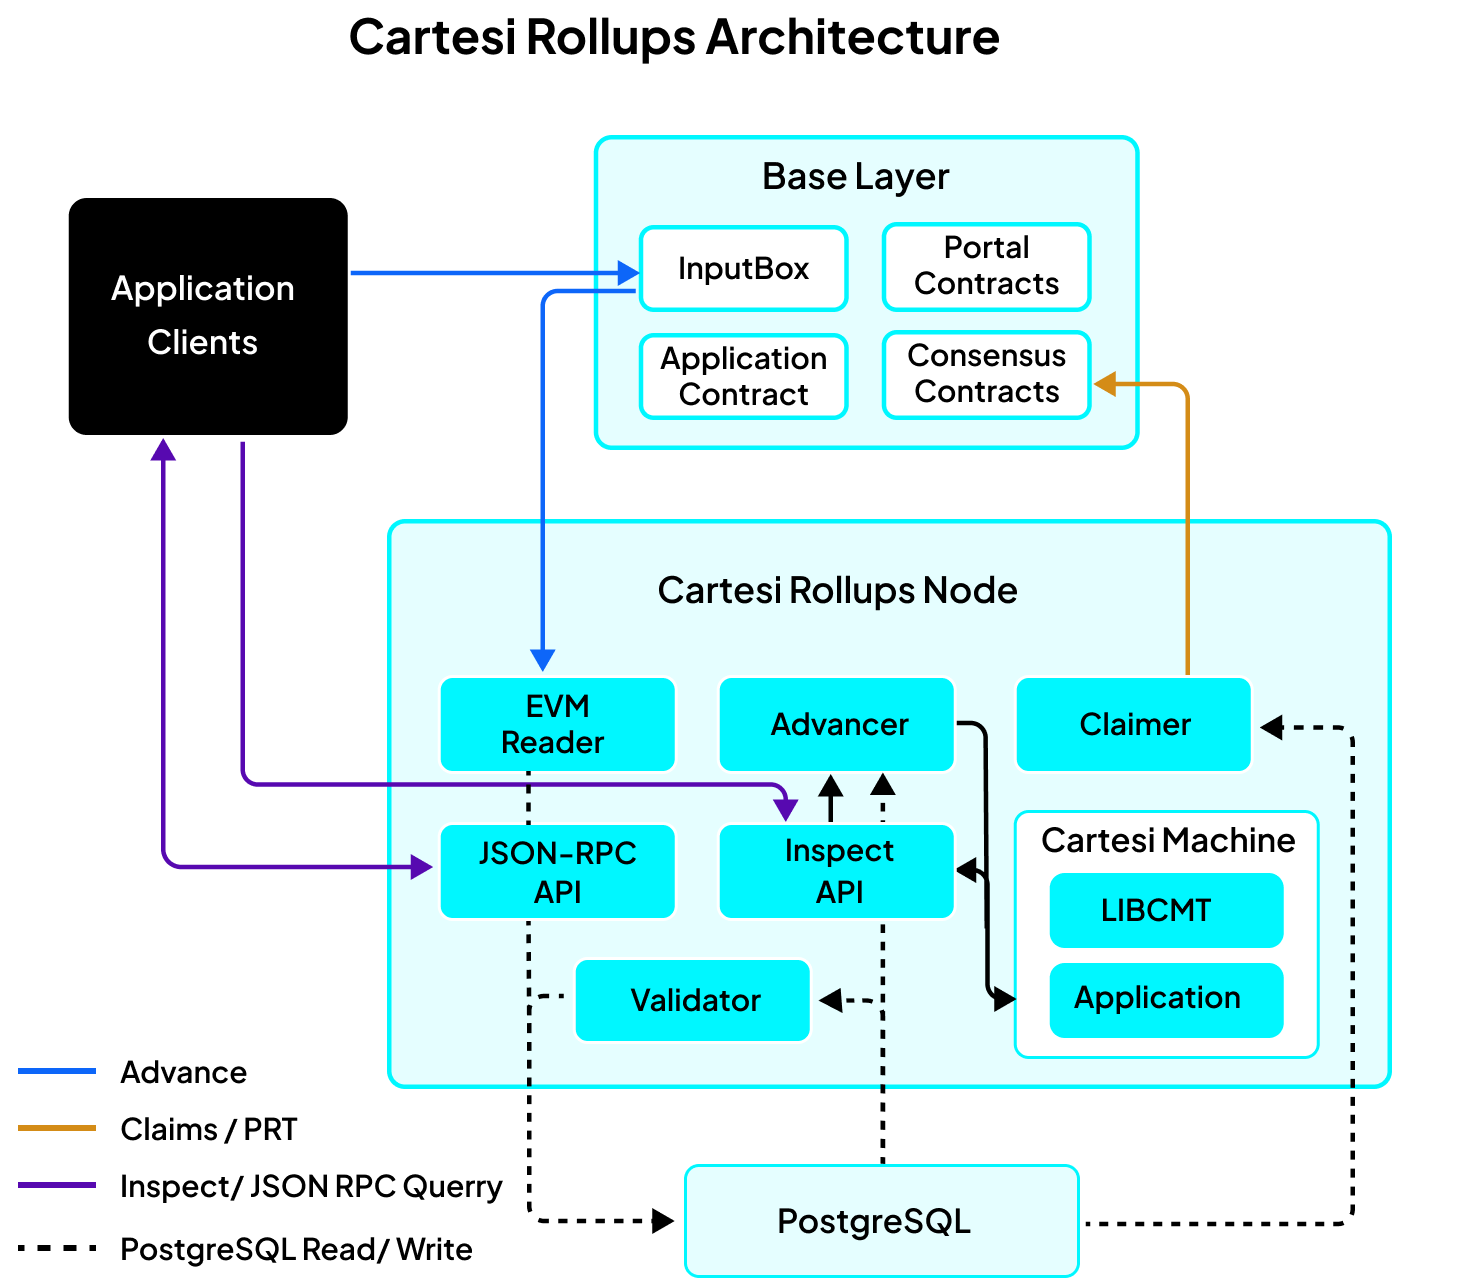
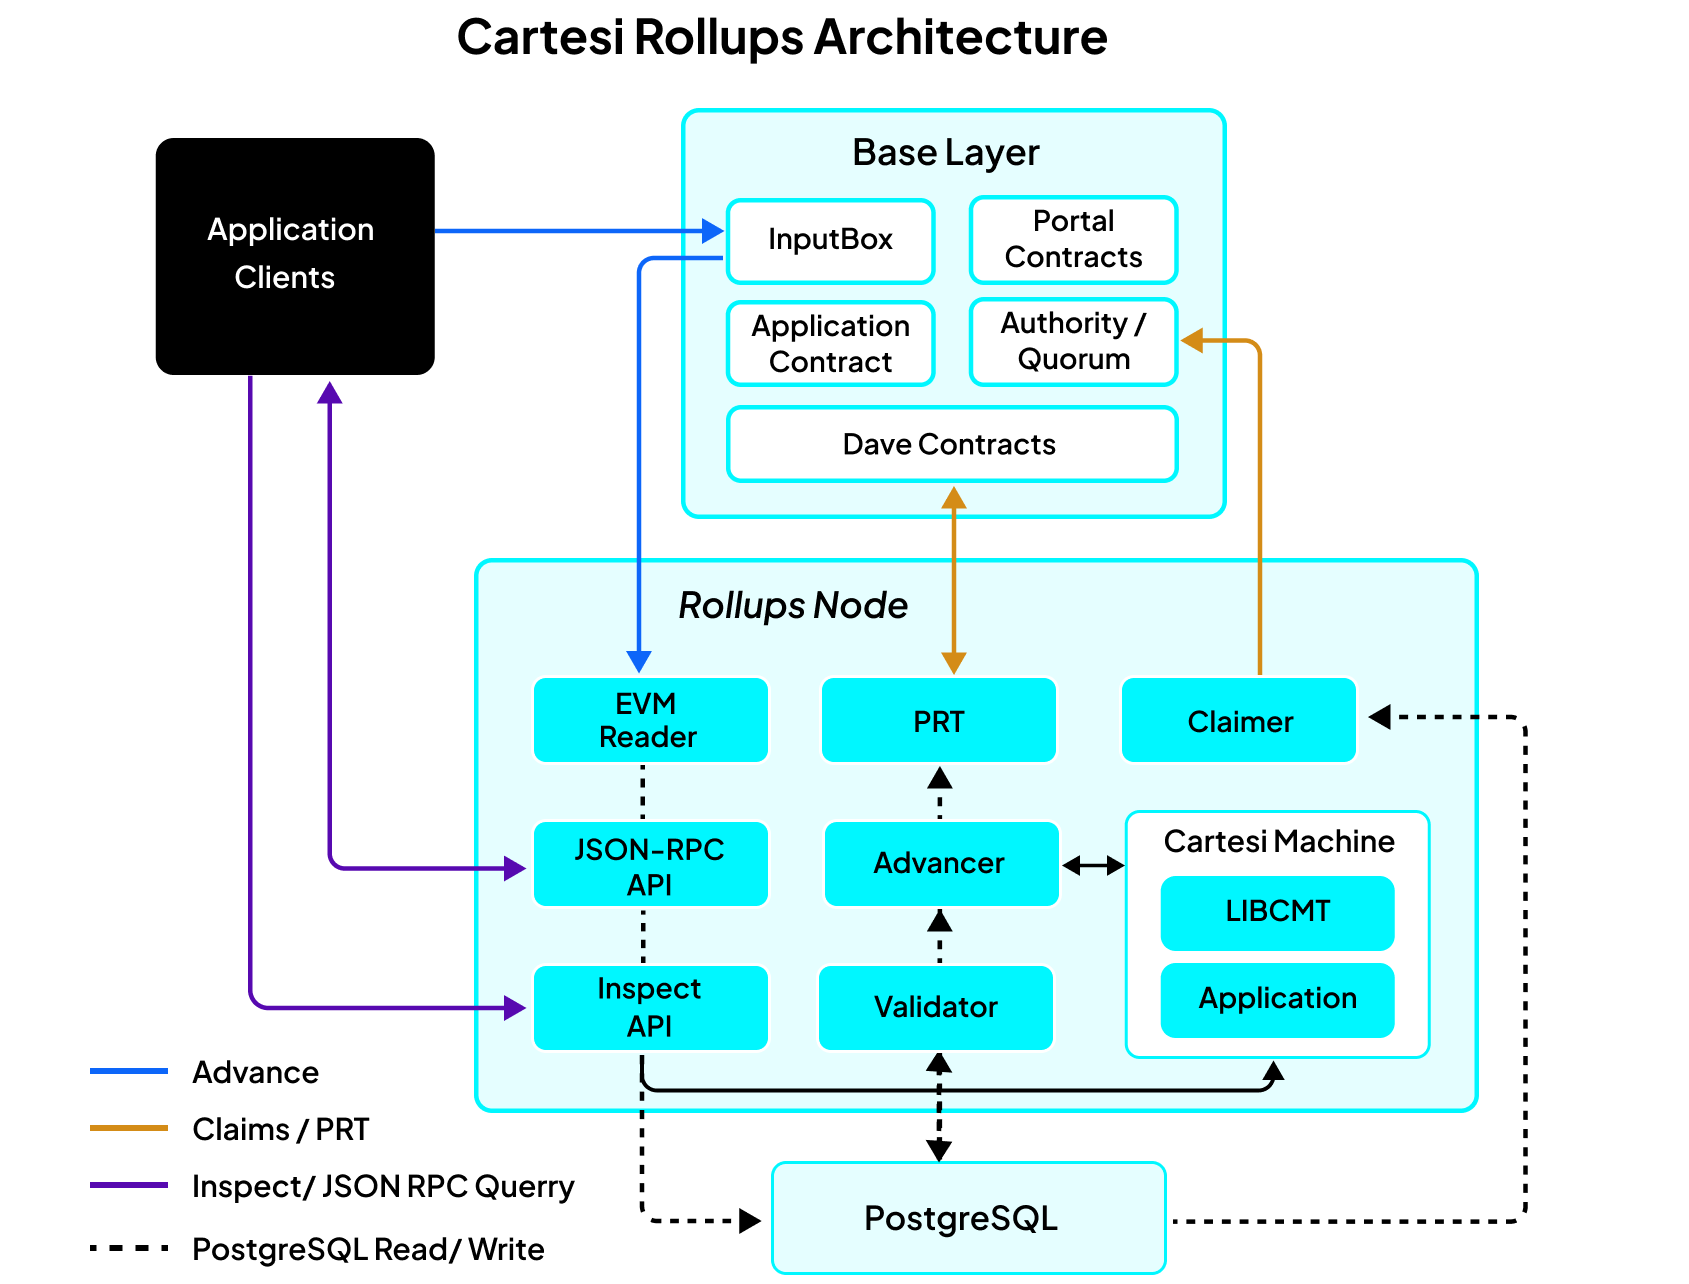
mod: Minor review implementation

diff --git a/rollups-node/README.md b/rollups-node/README.md
@@ -1,19 +1,19 @@
 <br>
 <p align="center">
-    <img src="docs/images/cartesi-logo.png" align="center" width="20%">
+    <img src="docs/images/cartesi-logo.png" align="center" width="20%" alt="Cartesi">
 </p>
 <br>
 
 # Cartesi Rollups Node
 
 [![Latest release](https://img.shields.io/github/v/release/cartesi/rollups-node?include_prereleases)](https://github.com/cartesi/rollups-node/releases)
-[![Build](https://github.com/cartesi/rollups-node/actions/workflows/build.yml/badge.svg?branch=next/2.0)](https://github.com/cartesi/rollups-node/actions/workflows/build.yml)
+[![Build](https://github.com/cartesi/rollups-node/actions/workflows/build.yml/badge.svg?branch=main)](https://github.com/cartesi/rollups-node/actions/workflows/build.yml)
 [![License](https://img.shields.io/github/license/cartesi/rollups-node)](LICENSE)
 
 Cartesi Rollups Node is the reference middleware connecting Cartesi Rollups contracts, application back ends running inside Cartesi Machines, and application clients. It reads on-chain inputs, advances application state, stores outputs, reports, claims, and proofs in PostgreSQL, submits claims when enabled, and exposes JSON-RPC and Inspect APIs for querying application state.
 
-> [!WARNING]
-> The 2.0 release line is currently in alpha. Interfaces, configuration, database schemas, and deployment procedures may change between releases. Before upgrading, review [GitHub Releases](https://github.com/cartesi/rollups-node/releases) and compare the target tag with your currently deployed version.
+> [!IMPORTANT]
+> Before upgrading, review [GitHub Releases](https://github.com/cartesi/rollups-node/releases) and compare the target release with the version currently deployed. Use compatible node, Cartesi Machine emulator, CLI, snapshot, and proof-tool versions throughout a deployment.
 
 <details>
 <summary><strong>Table of contents</strong> — click to expand</summary>
@@ -46,7 +46,7 @@ The node connects four parts of a Cartesi Rollups deployment:
 - **PostgreSQL:** stores applications, inputs, outputs, reports, epochs, claims, proofs, and operational state.
 - **Application clients:** submit inputs through the base layer, query indexed state through JSON-RPC, and send read-only requests through the Inspect API.
 
-![Cartesi Rollups architecture showing advance, inspect, query, and claim routes](docs/images/cartesi-rollups-architecture.png)
+![Cartesi Rollups architecture showing advance, inspect, query, claim, and PRT routes](docs/images/cartesi-rollups-architecture.png)
 
 Advance requests are submitted to the on-chain `InputBox`, read by the node, executed by the application machine, and persisted with their outputs and reports. The validator computes epoch claims and output proofs. The claimer submits Authority or Quorum claims, while the PRT service participates in Dave tournaments.
 
@@ -90,11 +90,11 @@ docker compose down -v
 
 ### Debian package
 
-The release workflow publishes amd64 and arm64 packages. Install the matching Cartesi Machine emulator before installing the node package:
+The release workflow publishes amd64 and arm64 packages. Choose a node release and its compatible Cartesi Machine emulator release, then replace the values below before installing:
 
 ```sh
-VERSION=2.0.0-alpha.12
-EMULATOR_VERSION=0.21.0
+VERSION="<node-version>"
+EMULATOR_VERSION="<compatible-emulator-version>"
 ARCH="$(dpkg --print-architecture)"
 
 curl -fLO "https://github.com/cartesi/machine-emulator/releases/download/v${EMULATOR_VERSION}/machine-emulator_${ARCH}.deb"
@@ -120,7 +120,7 @@ docker run --rm cartesi/rollups-node:devel cartesi-rollups-node --version
 Source builds require Go 1.26.3 or later, GNU Make, a C toolchain, `pkg-config`, OpenSSL development files, and Cartesi Machine emulator headers and libraries.
 
 ```sh
-git clone --branch next/2.0 https://github.com/cartesi/rollups-node.git
+git clone https://github.com/cartesi/rollups-node.git
 cd rollups-node
 make build
 sudo make install
@@ -287,14 +287,14 @@ cartesi-rollups-cli db check-version
 | `contract`                                  | Experimentally query on-chain contract state directly                                                                                  |
 | `foreclose`, `prove-drive-root`, `withdraw` | Perform the application foreclosure and withdrawal workflow                                                                            |
 
-Run `cartesi-rollups-cli --help` or generate the complete command reference with `make generate-cli-docs`.
+Run `cartesi-rollups-cli --help` or generate the complete command reference with `make generate-cli-docs`. For the complete foreclosure and withdrawal workflow, see the [Emergency Withdrawal Recovery Guide](https://docs.cartesi.io/cartesi-rollups/2.0/development/emergency-withdrawal/recovery-guide/).
 
 ### `cartesi-rollups-machine-tool`
 
 - `replay` replays accepted database inputs into a machine template and stores the resulting machine.
 - `prove accounts-drive` generates an accounts-drive root proof and an account withdrawal proof from a stored snapshot.
 
-Run `cartesi-rollups-machine-tool --help` for all required flags.
+Run `cartesi-rollups-machine-tool --help` for all required flags. Use the machine tool from the same release as the node because snapshot and proof formats may change together.
 
 ## Architecture and repository layout
 

diff --git a/cli/README.md b/cli/README.md
@@ -6,7 +6,7 @@
 
 # Cartesi CLI
 
-[![npm alpha](https://img.shields.io/npm/v/@cartesi/cli/alpha?label=npm%20alpha)](https://www.npmjs.com/package/@cartesi/cli)
+[![npm](https://img.shields.io/npm/v/@cartesi/cli)](https://www.npmjs.com/package/@cartesi/cli)
 [![CLI](https://github.com/cartesi/cli/actions/workflows/cli.yaml/badge.svg)](https://github.com/cartesi/cli/actions/workflows/cli.yaml)
 [![License](https://img.shields.io/github/license/cartesi/cli)](LICENSE)
 
@@ -39,7 +39,7 @@ Create, build, run, and interact with [Cartesi](https://cartesi.io) applications
 Install the CLI, verify your development environment, and create an application:
 
 ```sh
-npm install -g @cartesi/cli@alpha
+npm install -g @cartesi/cli
 cartesi doctor
 cartesi create hello --template python
 cd hello
@@ -57,28 +57,21 @@ cartesi address-book
 
 ## Requirements
 
-- Docker Desktop, or Docker Engine 25.0.0 or later on Linux
-- Docker Compose 2.24.0 or later
-- Docker Buildx 0.13.0 or later
-- `linux/riscv64` emulation for Docker builds
+- [Docker Desktop](https://docs.docker.com/desktop/) 4.x, including Docker Compose and Buildx
 - Node.js 20 or later when installing through npm
 
-Enable RISC-V emulation if it is not already available:
+Cartesi application images target `linux/riscv64`. Docker Desktop provides the cross-platform build support used by the CLI; this guide does not support a standalone Docker Engine installation.
 
-```sh
-docker run --privileged --rm tonistiigi/binfmt:riscv
-```
-
-Run `cartesi doctor` after installation to check Docker, Compose, Buildx, and RISC-V support.
+Run `cartesi doctor` after installation to check the local development tools.
 
 ## Installation
 
 ### npm
 
-Install the current prerelease from the npm alpha channel:
+Install the current release from npm:
 
 ```sh
-npm install -g @cartesi/cli@alpha
+npm install -g @cartesi/cli
 ```
 
 ### Standalone binaries
@@ -120,7 +113,7 @@ cartesi doctor
 | `clean`                               | Delete cached build artifacts                                        |
 | `doctor`                              | Check local prerequisites                                            |
 
-The `deploy` command is deprecated in 2.0. Use `cartesi-rollups-cli` directly when deploying to a public network.
+The `deploy` command is deprecated in 2.0. The `cartesi` CLI is intended for application development, while `cartesi-rollups-cli`, distributed with the Rollups Node, deploys and registers applications and manages node-side configuration on public networks. Follow the [self-hosted deployment guide](https://docs.cartesi.io/cartesi-rollups/2.0/deployment/self-hosted/standard/) for the complete workflow.
 
 Run `cartesi <command> --help` for the complete, current option set. The hosted [CLI command reference](https://docs.cartesi.io/get-started/cli-commands/) provides a general overview.
 
@@ -137,6 +130,8 @@ builder = "docker"
 dockerfile = "Dockerfile"
 format = "ext2"
 ```
+
+See the maintained [`cartesi.toml.example`](docs/cartesi.toml.example) for a complete, parser-aligned configuration reference and the [advanced configuration guide](https://docs.cartesi.io/cartesi-rollups/2.0/development/Advanced-configuration/) for explanations of the available settings.
 
 Multiple configuration files can be supplied with repeated `--config` options. Later files extend or override values from earlier files.
 
@@ -250,6 +245,7 @@ Releases are managed with [Changesets](https://github.com/changesets/changesets)
 
 - [Cartesi documentation](https://docs.cartesi.io/)
 - [CLI command reference](https://docs.cartesi.io/get-started/cli-commands/)
+- [Advanced `cartesi.toml` configuration](https://docs.cartesi.io/cartesi-rollups/2.0/development/Advanced-configuration/)
 - [CLI changelog](apps/cli/CHANGELOG.md)
 
 Individual packages may contain additional README files under `apps/` and `packages/`.

diff --git a/rollups-explorer/README.md b/rollups-explorer/README.md
@@ -47,7 +47,7 @@ The explorer can:
 - save node connections and ABI-based decoding specifications in the browser; and
 - visualize tournaments and matches for applications using PRT consensus.
 
-The current 2.0 explorer accepts Rollups Node versions in the `^2.0.0-alpha.12` range (`>=2.0.0-alpha.12 <3.0.0`). When establishing a connection, the explorer validates the version and chain ID reported by the Rollups Node. It checks that the configured Ethereum RPC responds, but it does not independently verify that the RPC uses the same chain.
+The explorer validates the Rollups Node version against the supported semantic-version range maintained in its [version compatibility check](https://github.com/cartesi/rollups-explorer/blob/main/apps/explorer/src/lib/supportedRollupsNode.ts). When establishing a connection, it also validates the chain ID reported by the node. It checks that the configured Ethereum RPC responds, but it does not independently verify that the RPC uses the same chain.
 
 ## Quick start
 
@@ -58,11 +58,13 @@ The fastest way to run Explorer 2.0 is with an explicitly versioned Docker image
 - Docker when running the published container.
 
 ```sh
+EXPLORER_VERSION="<release-version>"
+
 docker run --rm --name cartesi-rollups-explorer \
   -p 3000:3000 \
   -e CARTESI_NODE_RPC_URL=http://127.0.0.1:6751/rpc \
   -e NODE_RPC_URL=http://127.0.0.1:6751/anvil \
-  cartesi/rollups-explorer:2.0.0-alpha.3
+  "cartesi/rollups-explorer:${EXPLORER_VERSION}"
 ```
 
 Open [http://localhost:3000/explorer](http://localhost:3000/explorer).
